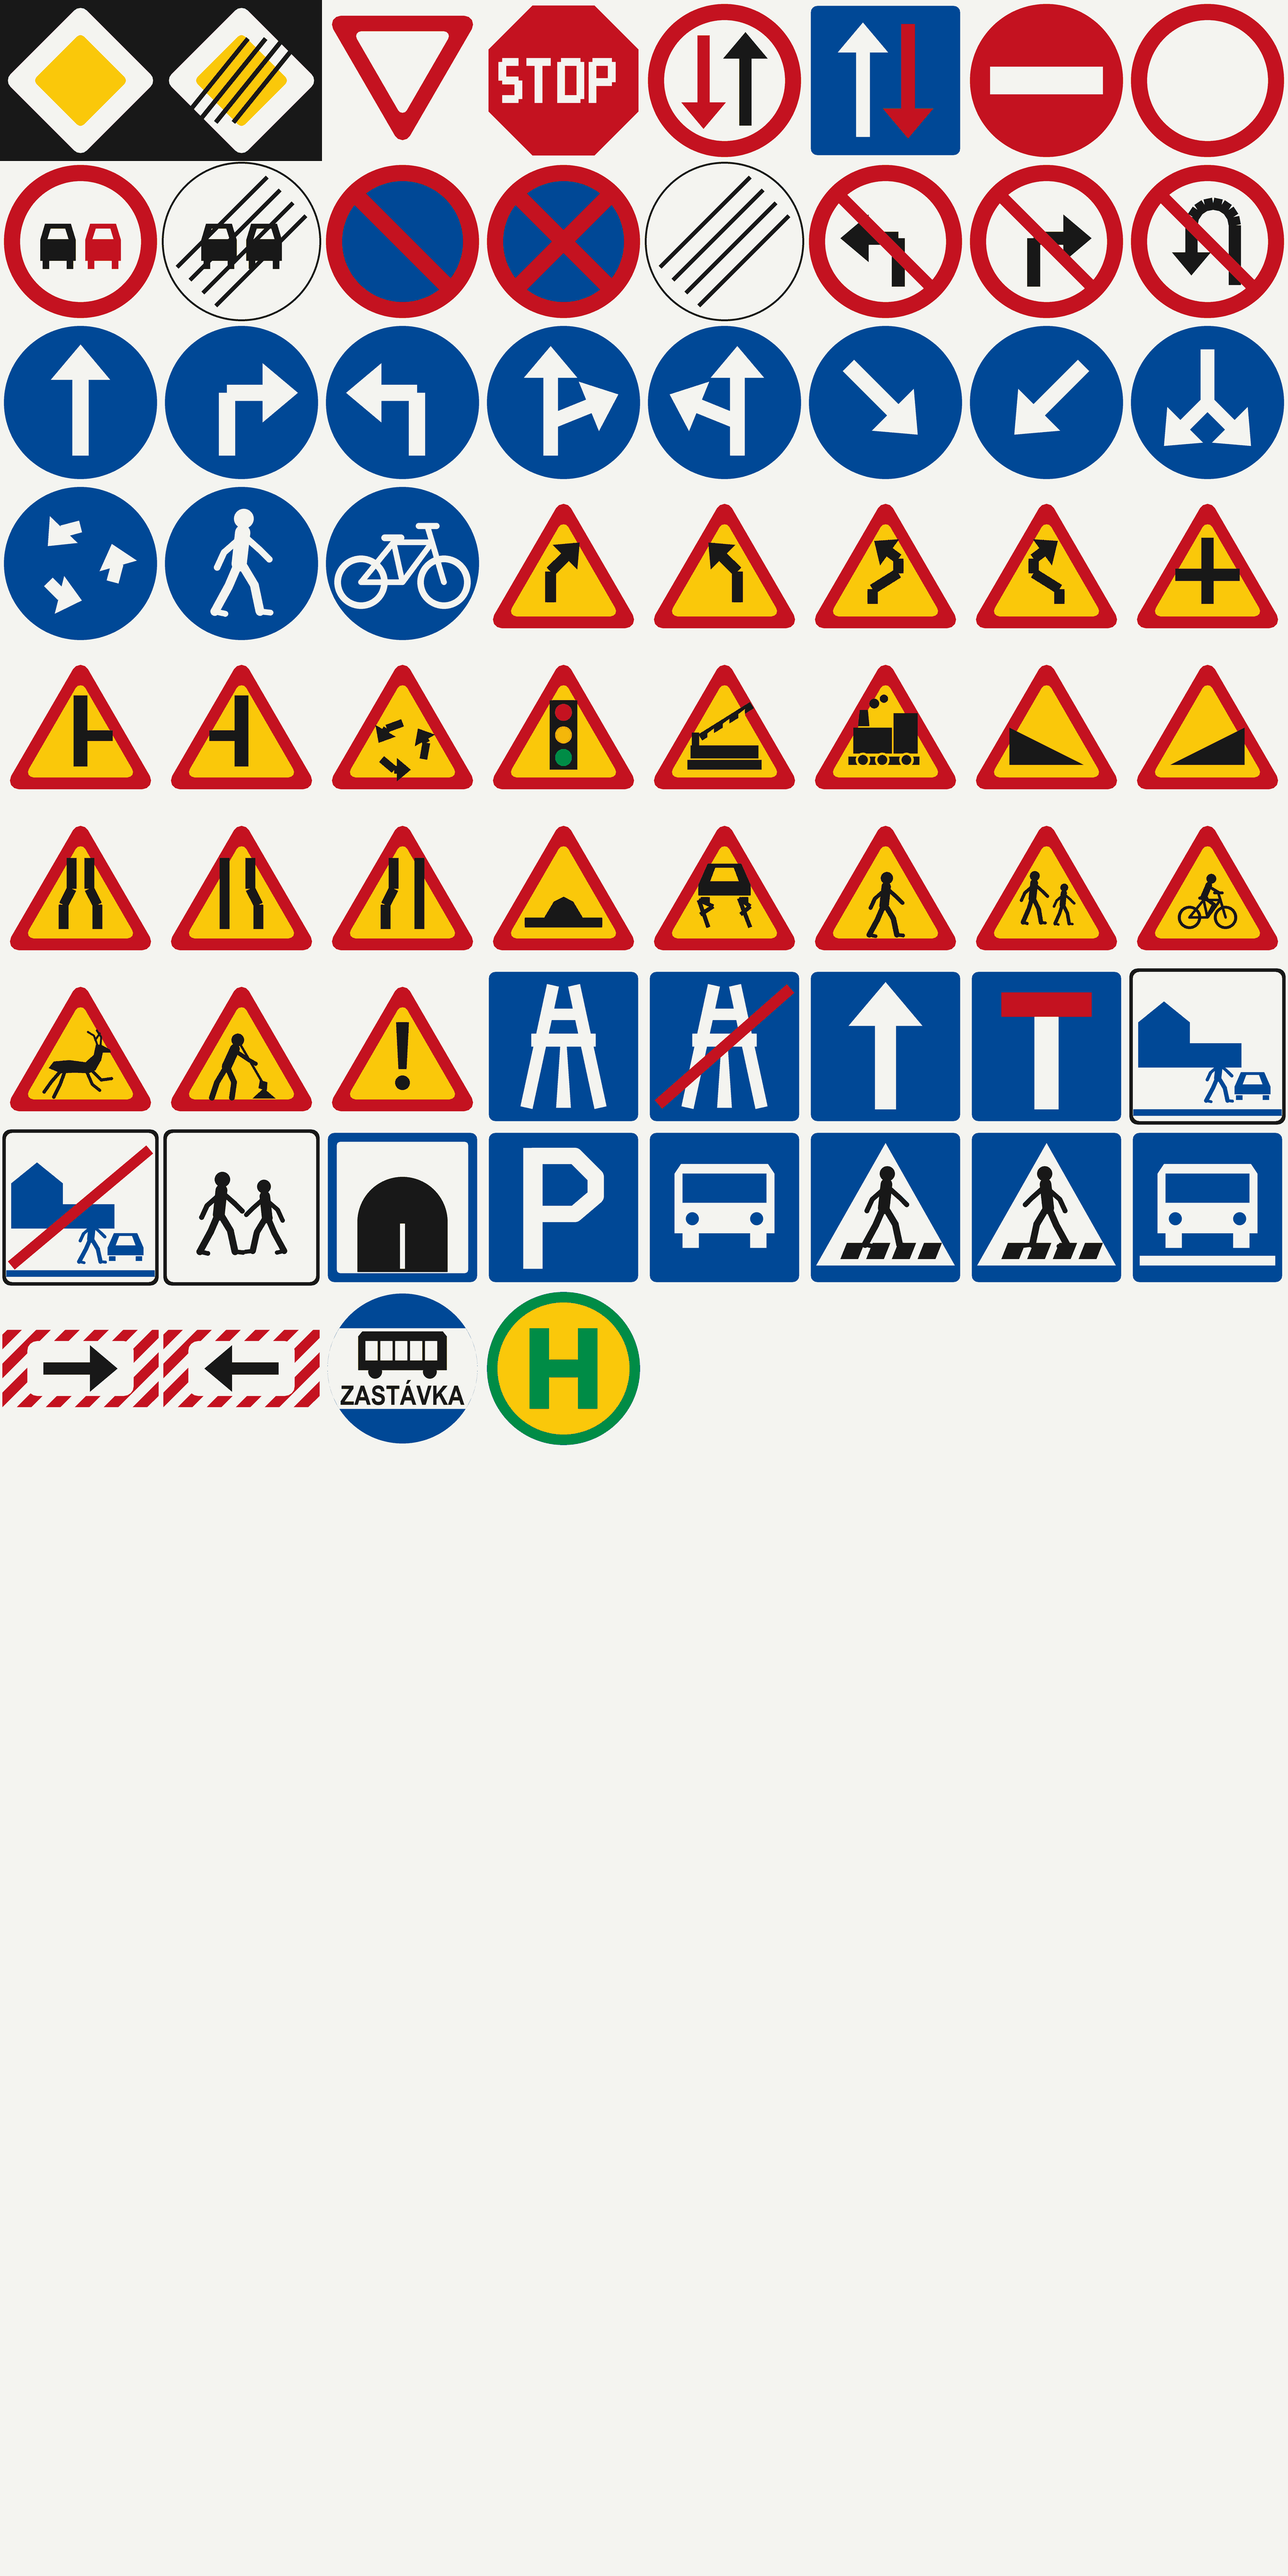
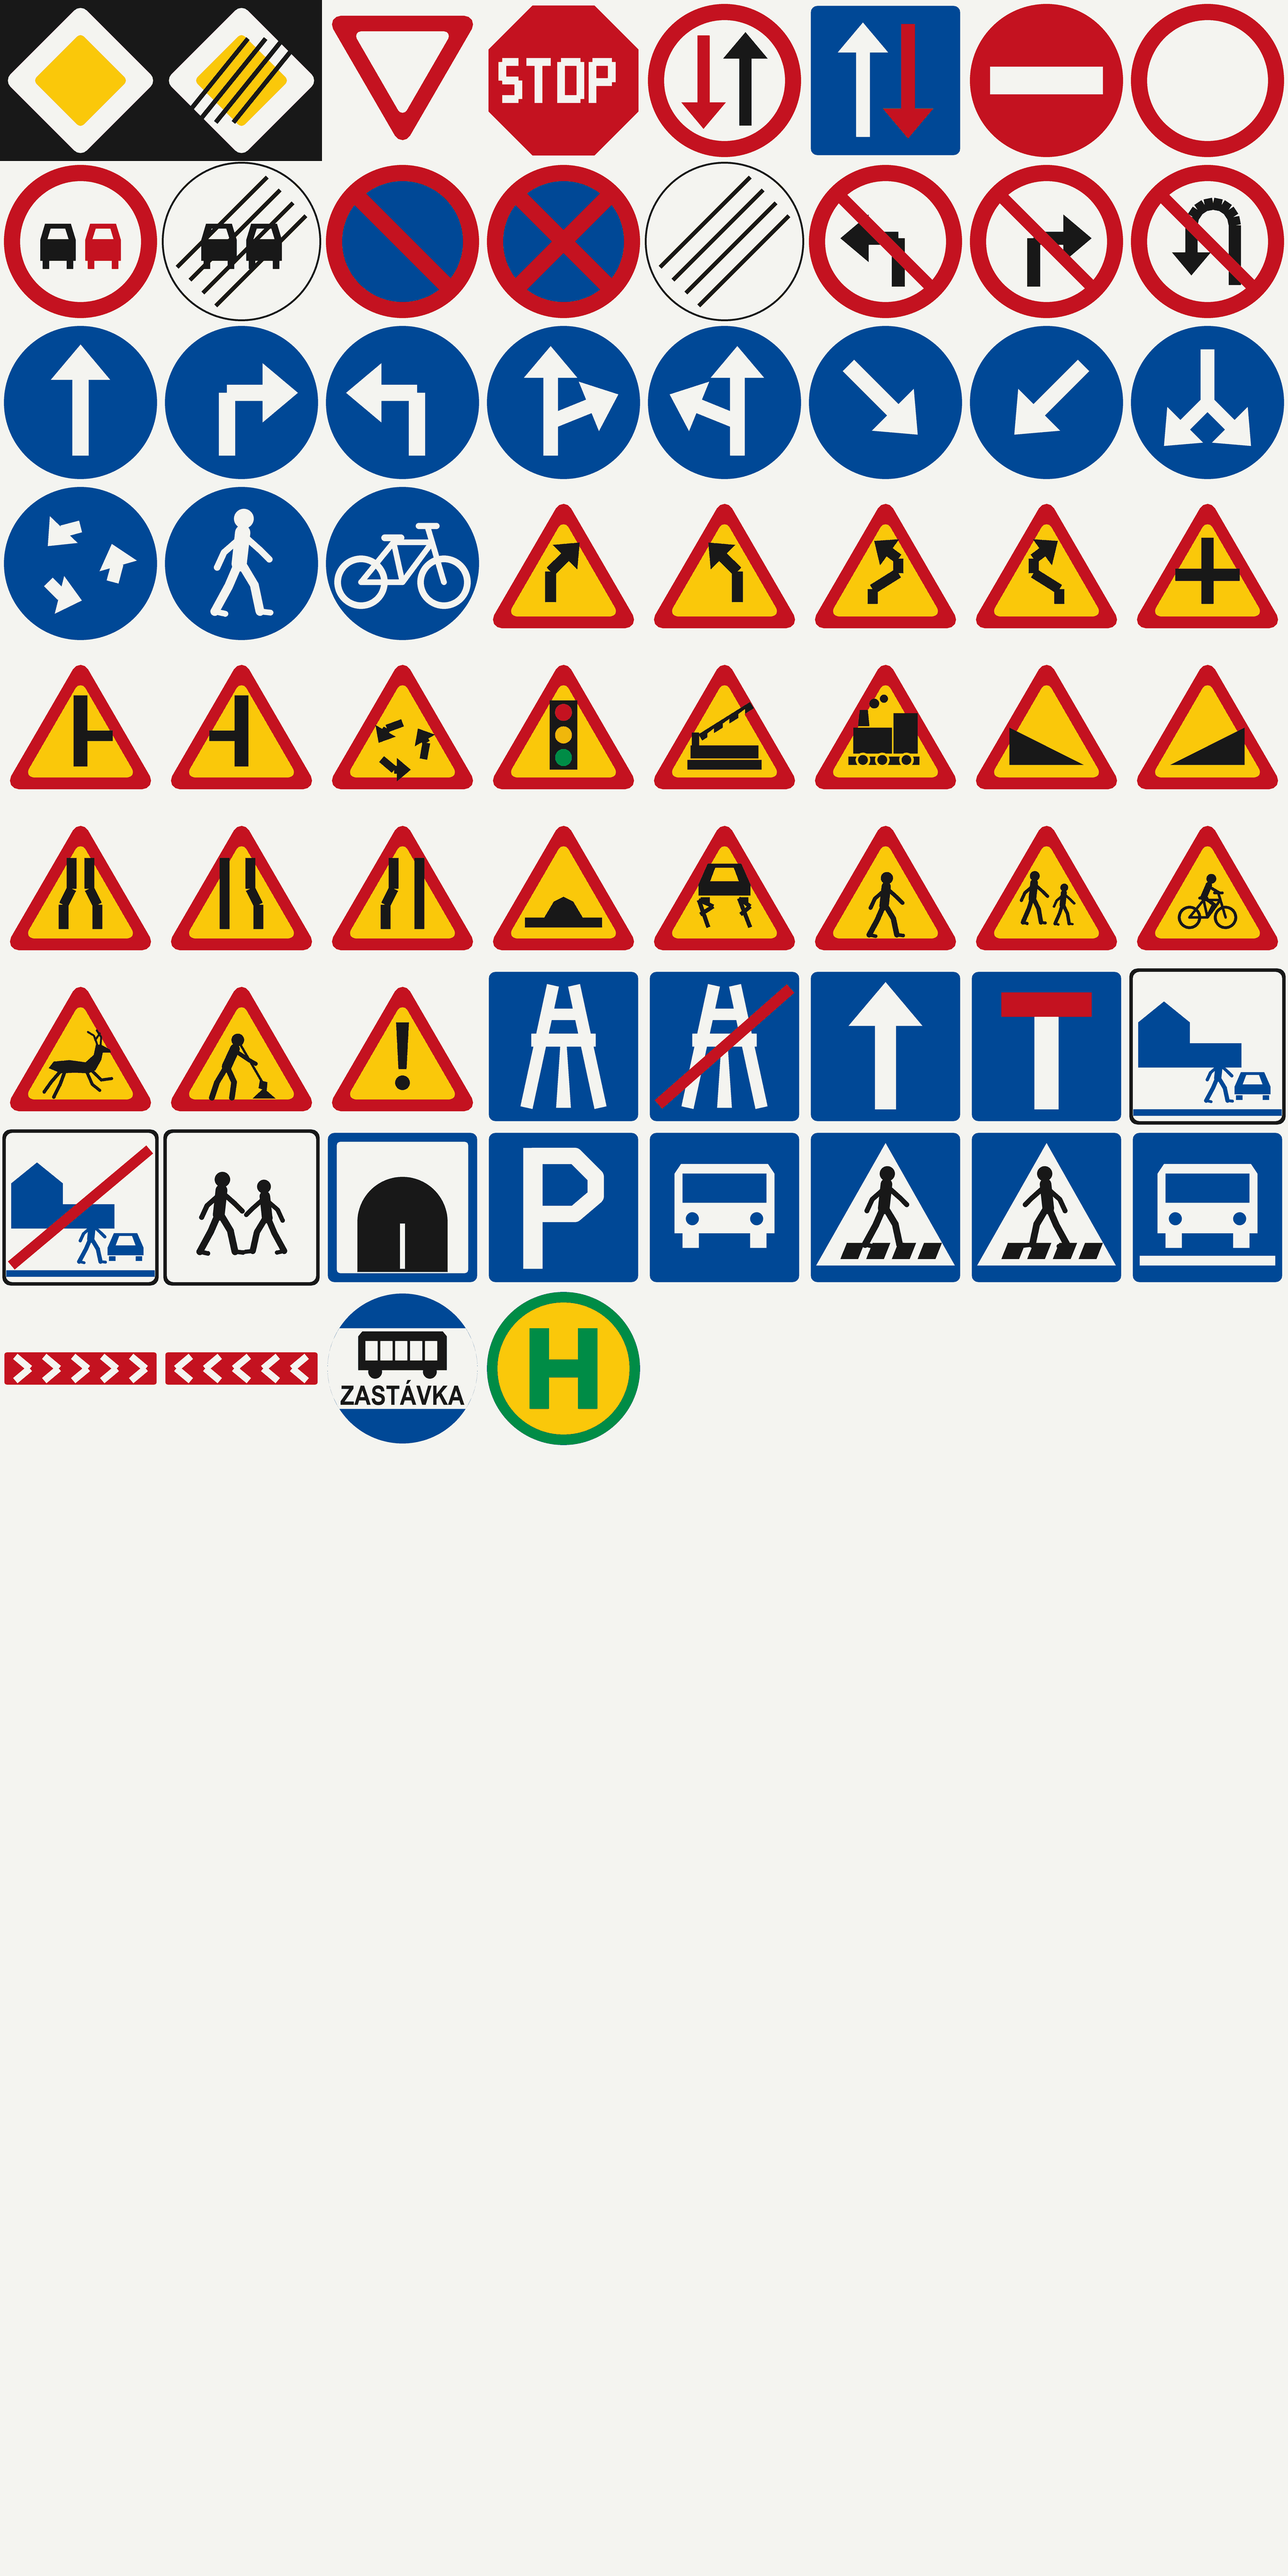
Road signs: the chevron board as a long red board with five white chevrons (like Ukraine's 1.4.1)

Changed region(s): [[0.0, 0.5, 0.25, 0.5625]]

diff --git a/tools/build_sign_atlas.py b/tools/build_sign_atlas.py
@@ -677,21 +677,16 @@ def i_pedzone(p):
 
 
 def chevron(side):
-    """A chevron board (a bend's direction board): a wide board of red and white diagonal stripes with a black arrow on a white
-    plate, twice as wide as high; it fills the middle band of its cell (outline 6)."""
+    """A bend's direction board (Ukraine's 1.4.1, the Czech and Polish long boards alike): a long red board with a thin white
+    rim and five white chevrons pointing the way the road turns, four times as wide as high; it fills the middle band of its
+    cell (outline 6)."""
     def go(pen, _f):
-        x0, x1, y0, y1 = -0.97, 0.97, -0.48, 0.48
-        pen.poly([(x0, y0), (x1, y0), (x1, y1), (x0, y1)], WHITE)
-        step = 0.36
-        k = x0 - 1.0
-        while k < x1 + 1.0:        # stripes leaning 45 degrees, half of every step red
-            band = [(k, y0 - 0.1), (k + step / 2, y0 - 0.1), (k + step / 2 + (y1 - y0 + 0.2), y1 + 0.1), (k + (y1 - y0 + 0.2), y1 + 0.1)]
-            got = clip_rect(band, x0, x1, y0, y1)
-            if got:
-                pen.poly(got, RED)
-            k += step
-        pen.poly(rounded([(0.66, 0.34), (-0.66, 0.34), (-0.66, -0.34), (0.66, -0.34)], 0.12), WHITE)
-        pen.arrow([(-0.46 * side, 0.0), (0.46 * side, 0.0)], 0.15, BLACK, 2.4)
+        x0, x1, y0, y1 = -0.97, 0.97, -0.25, 0.25
+        pen.poly(rounded([(x1, y1), (x0, y1), (x0, y0), (x1, y0)], 0.04), WHITE)
+        pen.poly(rounded([(x1 - 0.025, y1 - 0.05), (x0 + 0.025, y1 - 0.05), (x0 + 0.025, y0 + 0.05), (x1 - 0.025, y0 + 0.05)], 0.03), RED)
+        for k in range(5):
+            cx = (k - 2) * 0.36 * side
+            pen.line([(cx - 0.09 * side, 0.15), (cx + 0.09 * side, 0.0), (cx - 0.09 * side, -0.15)], 0.085, WHITE, False)
     return go
 
 

diff --git a/native/earthfast/src/roadsigns.rs b/native/earthfast/src/roadsigns.rs
@@ -813,7 +813,7 @@ pub fn outline(shape: i64) -> Vec<[f64; 2]> {
             vec![[t, 0.98], [-t, 0.98], [-0.98, t], [-0.98, -t], [-t, -0.98], [t, -0.98], [0.98, -t], [0.98, t]]
         }
         5 => round_poly(&[[0.97, 0.97], [-0.97, 0.97], [-0.97, -0.97], [0.97, -0.97]], 0.10),
-        6 => round_poly(&[[0.97, 0.48], [-0.97, 0.48], [-0.97, -0.48], [0.97, -0.48]], 0.06),     // a board twice as wide as high
+        6 => round_poly(&[[0.97, 0.25], [-0.97, 0.25], [-0.97, -0.25], [0.97, -0.25]], 0.04),     // a long board, four times as wide as high
         _ => (0..32).map(|k| {
             let a = k as f64 * std::f64::consts::TAU / 32.0;
             [0.99 * a.cos(), 0.99 * a.sin()]
